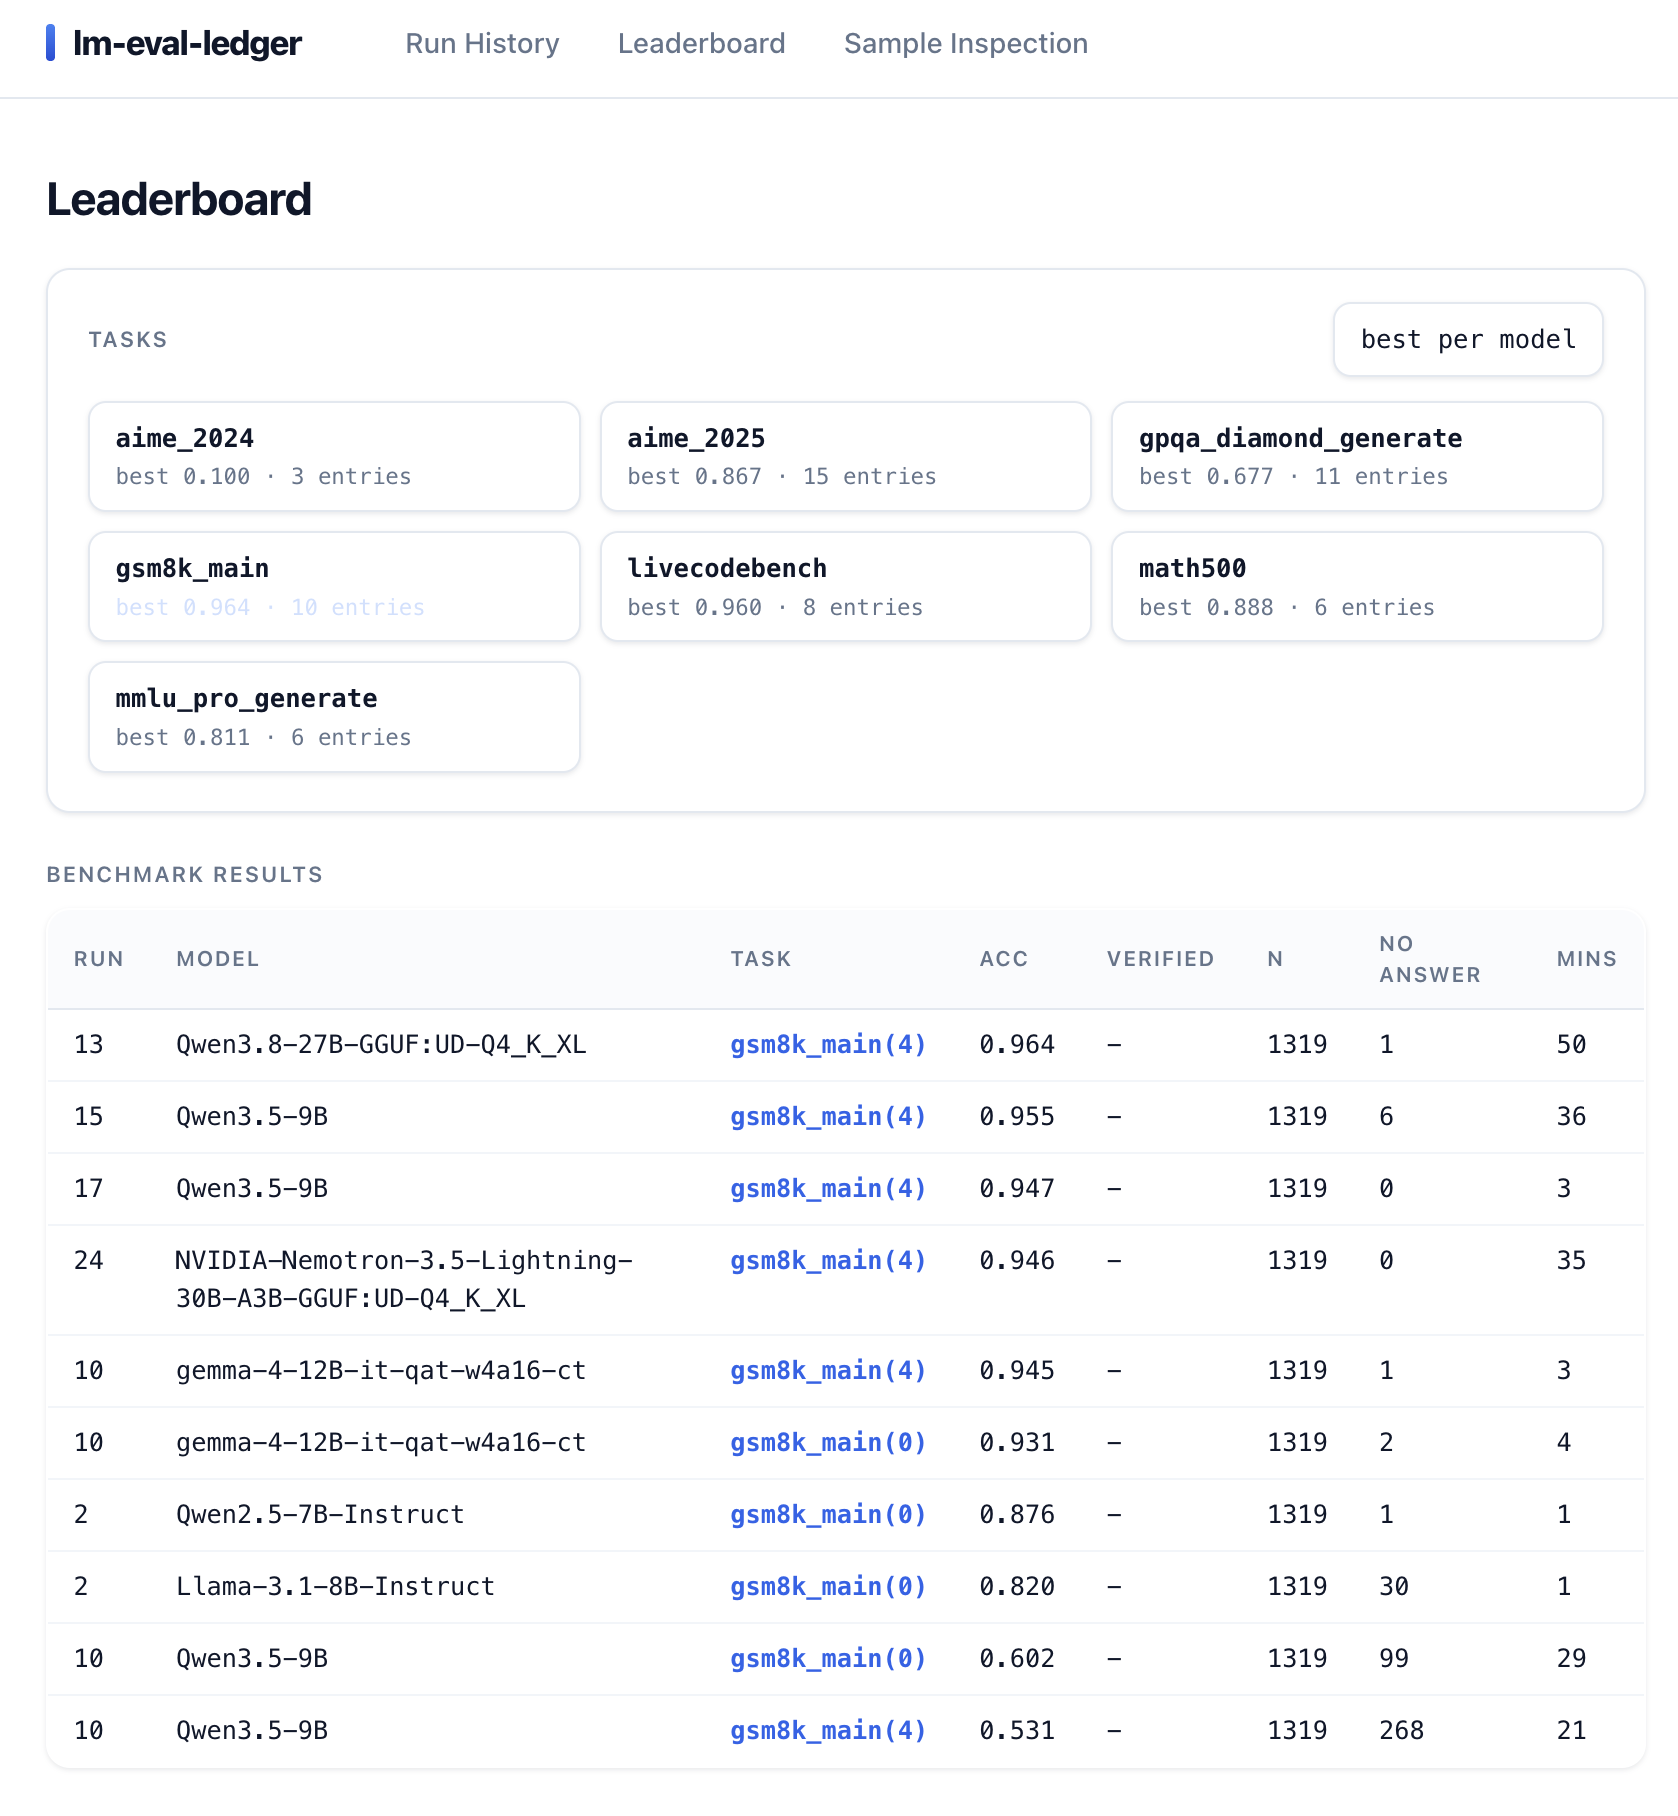
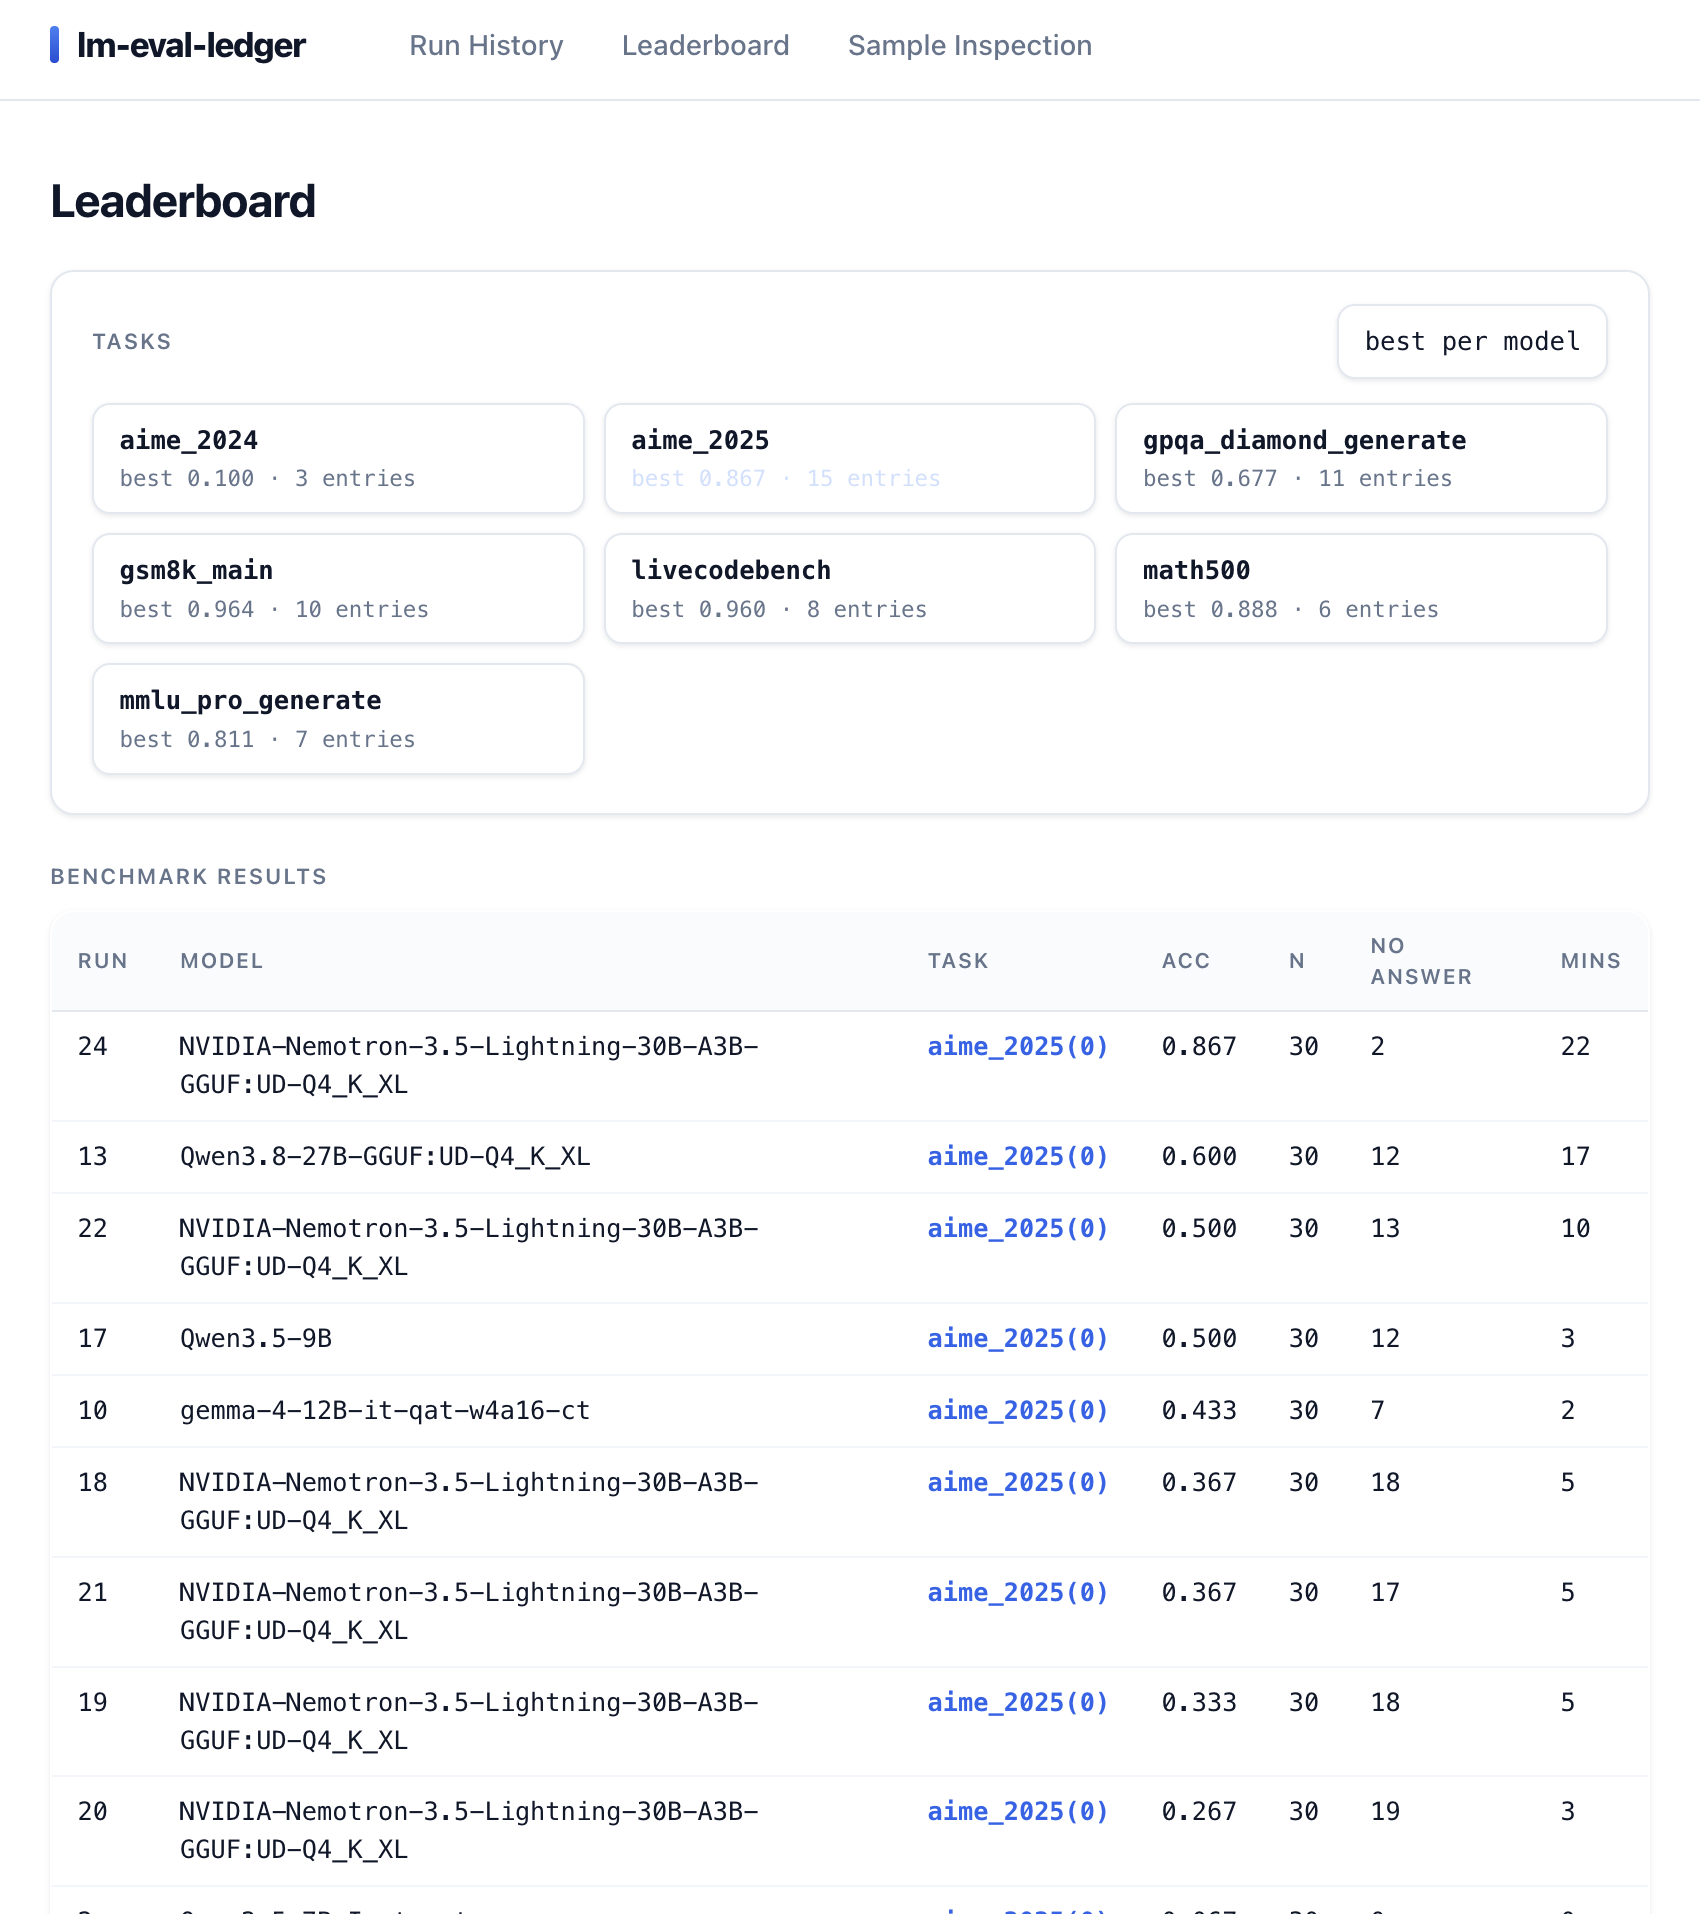
Config display: one YAML, resolved demoted to collapsed detail
The config a run SHOWS is now the file as written (single download
button; CLI-only runs show resolved with a note). The resolved form
stays stored and downloadable - it is the only record of CLI flags and
interactive choices (run 19's thinking diagnosis lived there), pins
every default as of the run, and multi-GPU workers boot from it - but
it no longer competes for attention with the source.

diff --git a/src/lm_eval_ledger/webapp/templates/runconfig.html b/src/lm_eval_ledger/webapp/templates/runconfig.html
@@ -4,25 +4,24 @@
 <h1>Config · run {{ run_id }} · {{ run_name }}</h1>
 <p class="muted"><a href="{{ url_for('runs') }}">&larr; Run History</a></p>
 
-{% if source_yaml %}
 <section class="panel">
   <div class="lbhead">
-    <span class="lbtitle">as written</span>
+    <span class="lbtitle">config{{ "" if source_yaml else " (resolved)" }}</span>
     <a class="btn subtle" href="{{ url_for('run_config_download', run_id=run_id, kind='source') }}">download</a>
   </div>
-  <pre class="cfgtext full">{{ source_yaml }}</pre>
-</section>
-{% endif %}
-
-<section class="panel">
-  <div class="lbhead">
-    <span class="lbtitle">resolved</span>
-    <a class="btn subtle" href="{{ url_for('run_config_download', run_id=run_id, kind='resolved') }}">download</a>
-  </div>
   {% if not source_yaml %}
-  <p class="muted">This run was launched from CLI flags only, so there is no
-    source file; the resolved config below reproduces it exactly.</p>
+  <p class="muted">This run was launched from CLI flags only (no config
+    file); the resolved config below reproduces it exactly.</p>
   {% endif %}
-  <pre class="cfgtext full">{{ config_yaml }}</pre>
+  <pre class="cfgtext full">{{ source_yaml or config_yaml }}</pre>
+  {% if source_yaml %}
+  <details>
+    <summary class="muted">as executed (resolved: every field pinned,
+      CLI/interactive overrides applied)
+      <a class="btn subtle" href="{{ url_for('run_config_download', run_id=run_id, kind='resolved') }}"
+         onclick="event.stopPropagation()">download</a></summary>
+    <pre class="cfgtext full">{{ config_yaml }}</pre>
+  </details>
+  {% endif %}
 </section>
 {% endblock %}

diff --git a/src/lm_eval_ledger/webapp/templates/runs.html b/src/lm_eval_ledger/webapp/templates/runs.html
@@ -27,12 +27,8 @@
     <summary>config
       <a class="btn subtle" href="{{ url_for('run_config', run_id=r.run_id) }}"
          onclick="event.stopPropagation()">view</a>
-      {% if r.source_yaml %}
       <a class="btn subtle" href="{{ url_for('run_config_download', run_id=r.run_id, kind='source') }}"
-         onclick="event.stopPropagation()">download yaml (as written)</a>
-      {% endif %}
-      <a class="btn subtle" href="{{ url_for('run_config_download', run_id=r.run_id, kind='resolved') }}"
-         onclick="event.stopPropagation()">download yaml (resolved)</a>
+         onclick="event.stopPropagation()">download yaml</a>
     </summary>
     <pre class="cfgtext">{{ r.source_yaml or r.config_yaml }}</pre>
   </details>

diff --git a/README.md b/README.md
@@ -37,6 +37,12 @@ Live demo: [lm-eval-ledger on Hugging Face Spaces](https://huggingface.co/spaces
 
 ```bash
 pip install lm-eval-ledger
+
+# Or install from source:
+git clone https://github.com/jayminbhan/lm-eval-ledger
+cd lm-eval-ledger
+pip install -e .   # add a backend: pip install -e ".[vllm]"
+
 ```
 
 Inference backends are optional extras — install the one you will use:
@@ -55,9 +61,9 @@ lm-eval-ledger -c config.yaml                       # run benchmarks
 lm-eval-ledger serve --db results/ledger.sqlite3    # browse at http://localhost:8090
 ```
 
-See [Configuration](#configuration) for the YAML format and [TASKS.md](TASKS.md) for available tasks.
+See [template.yaml](#configuration) for the YAML format and [TASKS.md](TASKS.md) for available tasks.
 
-## Configuration
+## Configuration 
 
 A minimal config:
 
